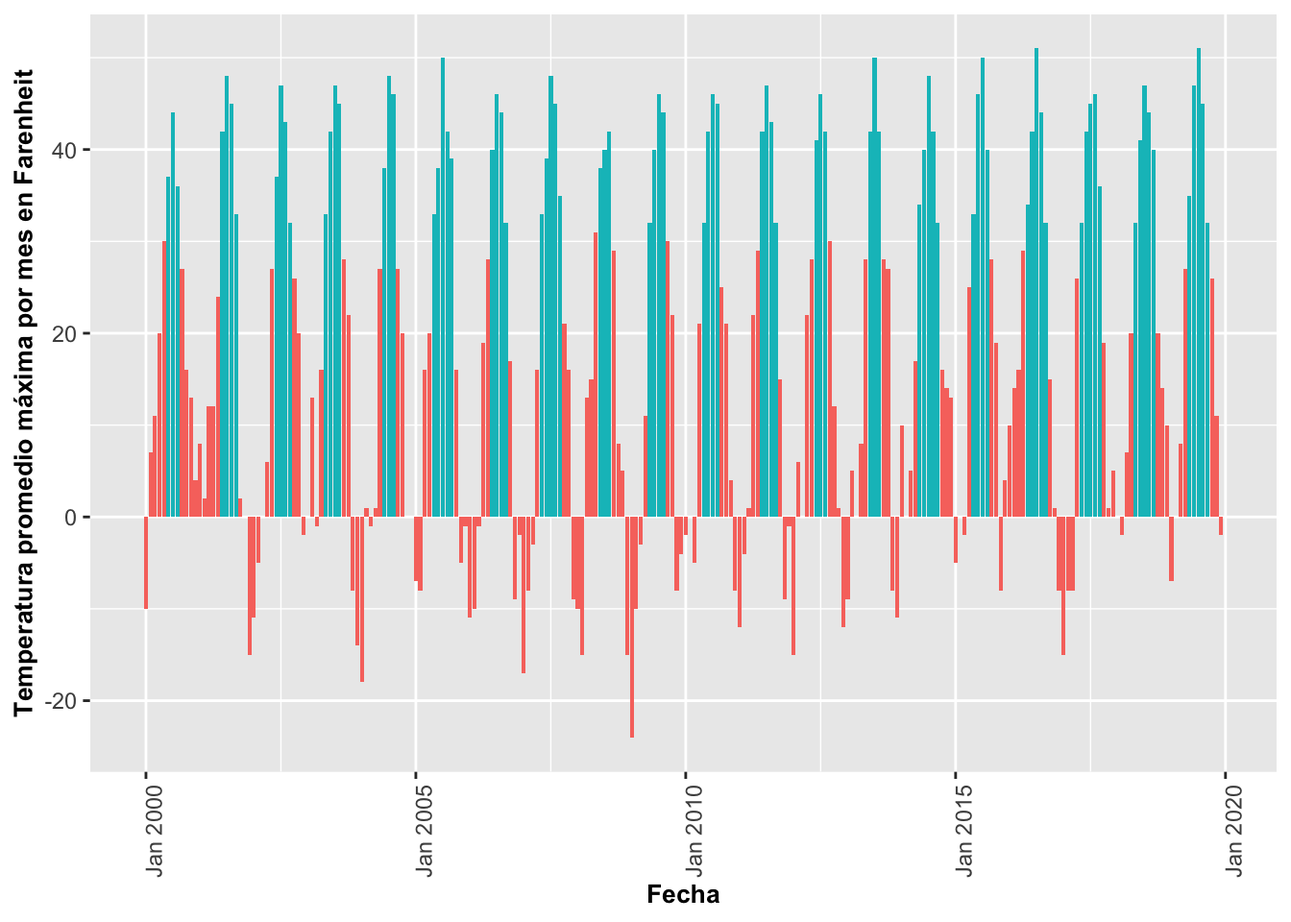
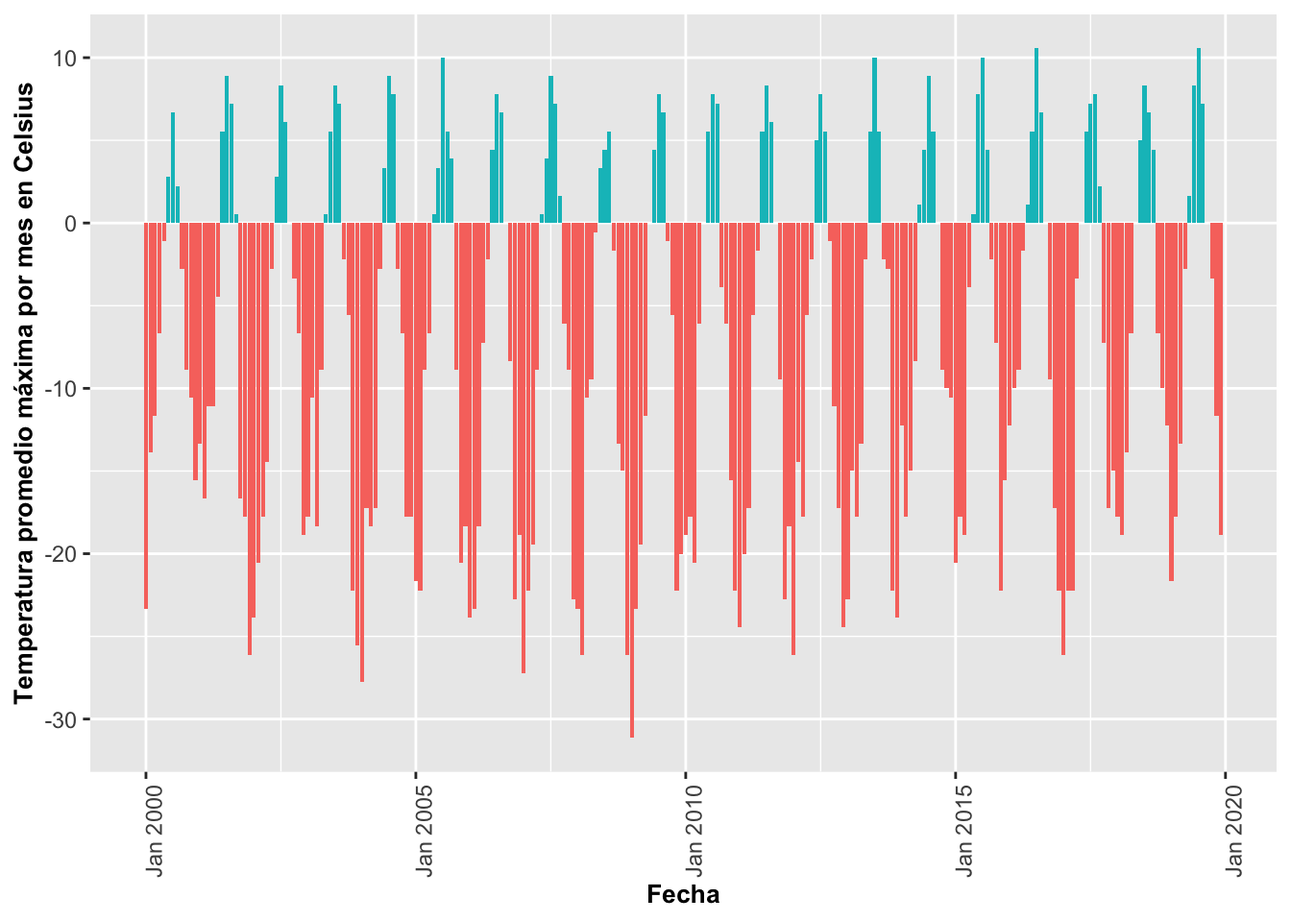
G7

Changed region(s): [[0.0938, 0.2188, 0.9688, 0.5625], [0.0, 0.0625, 0.0938, 0.7812]]

diff --git a/G7_geom_bar.html b/G7_geom_bar.html
@@ -571,12 +571,12 @@ div.tocify {
 <p>Fecha de la ultima revisión</p>
 <pre><code>## [1] &quot;2020-09-23&quot;</code></pre>
 <div class="sourceCode" id="cb2"><pre class="sourceCode r"><code class="sourceCode r"><span id="cb2-1"><a href="#cb2-1"></a><span class="kw">library</span>(tidyverse)</span></code></pre></div>
-<pre><code>## ── Attaching packages ────────────────────────────────────────────────────────────────────────────────────────────────────── tidyverse 1.3.0 ──</code></pre>
+<pre><code>## ── Attaching packages ──────────────────────────────────────────────────────────────────────────────────────────────── tidyverse 1.3.0 ──</code></pre>
 <pre><code>## ✓ ggplot2 3.3.2     ✓ purrr   0.3.4
 ## ✓ tibble  3.0.3     ✓ dplyr   1.0.2
 ## ✓ tidyr   1.1.2     ✓ stringr 1.4.0
 ## ✓ readr   1.3.1     ✓ forcats 0.5.0</code></pre>
-<pre><code>## ── Conflicts ───────────────────────────────────────────────────────────────────────────────────────────────────────── tidyverse_conflicts() ──
+<pre><code>## ── Conflicts ─────────────────────────────────────────────────────────────────────────────────────────────────── tidyverse_conflicts() ──
 ## x dplyr::filter() masks stats::filter()
 ## x dplyr::lag()    masks stats::lag()</code></pre>
 <div class="sourceCode" id="cb6"><pre class="sourceCode r"><code class="sourceCode r"><span id="cb6-1"><a href="#cb6-1"></a><span class="kw">library</span>(ggversa)</span>
@@ -989,34 +989,69 @@ Figura: Lepanthes eltoroensis, EL Yunque, Puerto Rico
 <div id="identificar-que-la-variable-fecha-es-una-variable-de-tiempo.-habrá-un-modulo-para-discutir-solamente-de-fechas-y-horas." class="section level3">
 <h3>Identificar que la variable “Fecha” es una variable de tiempo. Habrá un modulo para discutir solamente de fechas y horas.</h3>
 <div class="sourceCode" id="cb49"><pre class="sourceCode r"><code class="sourceCode r"><span id="cb49-1"><a href="#cb49-1"></a><span class="co"># Identificar que la variable &quot;Fecha&quot; es una variable de tiempo.</span></span>
-<span id="cb49-2"><a href="#cb49-2"></a><span class="kw">names</span>(ASBESTOS_QUEBEC)[<span class="kw">names</span>(ASBESTOS_QUEBEC) <span class="op">==</span><span class="st"> &#39;Date.Time&#39;</span>] &lt;-<span class="st"> &#39;Fecha&#39;</span></span></code></pre></div>
+<span id="cb49-2"><a href="#cb49-2"></a><span class="kw">names</span>(ASBESTOS_QUEBEC)[<span class="kw">names</span>(ASBESTOS_QUEBEC) <span class="op">==</span><span class="st"> &#39;Date.Time&#39;</span>] &lt;-<span class="st"> &#39;Fecha&#39;</span></span>
+<span id="cb49-3"><a href="#cb49-3"></a></span>
+<span id="cb49-4"><a href="#cb49-4"></a><span class="kw">head</span>(ASBESTOS_QUEBEC, <span class="dt">n=</span><span class="dv">15</span>)</span></code></pre></div>
+<pre><code>##    Year Mes Temp_Prom_Max Temp_Prom_Min   Fecha
+## 1  1948   6          22.2           9.9 1948-06
+## 2  1948   7          25.5          14.2 1948-07
+## 3  1948   8          24.9          14.2 1948-08
+## 4  1948   9          21.6           8.4 1948-09
+## 5  1948  10          12.0           2.6 1948-10
+## 6  1948  11          10.3           1.9 1948-11
+## 7  1948  12           1.4          -7.8 1948-12
+## 8  1949   1          -1.9         -12.3 1949-01
+## 9  1949   2            NA            NA 1949-02
+## 10 1949   3           1.4          -9.2 1949-03
+## 11 1949   4          10.6           0.2 1949-04
+## 12 1949   5          17.6           5.0 1949-05
+## 13 1949   6          24.4          12.9 1949-06
+## 14 1949   7          26.6          17.7 1949-07
+## 15 1949   8          25.4          13.9 1949-08</code></pre>
 </div>
 <div id="crear-la-nueva-variable-temp_prom_max" class="section level3">
 <h3>Crear la nueva variable Temp_Prom_Max;</h3>
 <p>Aquí se crea una nueva columna con para identificar si los datos son positivos o negativos, si es positiva = “TRUE”, si es negativa = “FALSE”.</p>
-<div class="sourceCode" id="cb50"><pre class="sourceCode r"><code class="sourceCode r"><span id="cb50-1"><a href="#cb50-1"></a>ASBESTOS_QUEBEC<span class="op">$</span>NegPos=ASBESTOS_QUEBEC<span class="op">$</span>Temp_Prom_Max<span class="op">&gt;=</span><span class="dv">0</span></span></code></pre></div>
+<div class="sourceCode" id="cb51"><pre class="sourceCode r"><code class="sourceCode r"><span id="cb51-1"><a href="#cb51-1"></a>ASBESTOS_QUEBEC<span class="op">$</span>NegPos=ASBESTOS_QUEBEC<span class="op">$</span>Temp_Prom_Max<span class="op">&gt;=</span><span class="dv">0</span></span>
+<span id="cb51-2"><a href="#cb51-2"></a><span class="kw">tail</span>(ASBESTOS_QUEBEC)</span></code></pre></div>
+<pre><code>##     Year Mes Temp_Prom_Max Temp_Prom_Min   Fecha NegPos
+## 461 1986  10          10.5           2.7 1986-10   TRUE
+## 462 1986  11           2.2          -5.7 1986-11   TRUE
+## 463 1986  12            NA            NA 1986-12     NA
+## 464 1987   1            NA            NA 1987-01     NA
+## 465 1987   2          -7.8         -18.6 1987-02  FALSE
+## 466 1987   3           3.3          -6.4 1987-03   TRUE</code></pre>
 </div>
 <div id="selecionar-solamente-un-subgrupo-de-los-datos" class="section level3">
 <h3>Selecionar solamente un subgrupo de los datos</h3>
-<div class="sourceCode" id="cb51"><pre class="sourceCode r"><code class="sourceCode r"><span id="cb51-1"><a href="#cb51-1"></a>ASBESTOSsub=<span class="kw">subset</span>(ASBESTOS_QUEBEC, Year<span class="op">&gt;</span><span class="dv">1962</span> <span class="op">&amp;</span><span class="st"> </span>Year<span class="op">&lt;</span><span class="dv">1967</span>)</span></code></pre></div>
+<div class="sourceCode" id="cb53"><pre class="sourceCode r"><code class="sourceCode r"><span id="cb53-1"><a href="#cb53-1"></a>ASBESTOSsub=<span class="kw">subset</span>(ASBESTOS_QUEBEC, Year<span class="op">&gt;</span><span class="dv">1962</span> <span class="op">&amp;</span><span class="st"> </span>Year<span class="op">&lt;</span><span class="dv">1967</span>) <span class="co"># 1963 al 1966</span></span>
+<span id="cb53-2"><a href="#cb53-2"></a></span>
+<span id="cb53-3"><a href="#cb53-3"></a><span class="kw">head</span>(ASBESTOSsub)</span></code></pre></div>
+<pre><code>##     Year Mes Temp_Prom_Max Temp_Prom_Min   Fecha NegPos
+## 176 1963   1          -6.6         -12.7 1963-01  FALSE
+## 177 1963   2          -9.0         -16.7 1963-02  FALSE
+## 178 1963   3           0.6          -8.8 1963-03   TRUE
+## 179 1963   4           8.2          -0.9 1963-04   TRUE
+## 180 1963   5          16.9           5.7 1963-05   TRUE
+## 181 1963   6          23.1          12.3 1963-06   TRUE</code></pre>
 </div>
 <div id="uniendo-las-partes-para-crear-el-gráfico" class="section level3">
 <h3>Uniendo las partes para crear el gráfico</h3>
-<div class="sourceCode" id="cb52"><pre class="sourceCode r"><code class="sourceCode r"><span id="cb52-1"><a href="#cb52-1"></a><span class="kw">ggplot</span>(<span class="dt">data=</span>ASBESTOSsub,</span>
-<span id="cb52-2"><a href="#cb52-2"></a>  <span class="kw">aes</span>(<span class="dt">x=</span>Fecha, <span class="dt">y=</span>Temp_Prom_Max, <span class="dt">fill=</span>NegPos)) <span class="op">+</span></span>
-<span id="cb52-3"><a href="#cb52-3"></a><span class="st">  </span><span class="kw">geom_bar</span>(<span class="dt">stat =</span> <span class="st">&quot;identity&quot;</span>, <span class="dt">position=</span><span class="st">&quot;identity&quot;</span>)<span class="op">+</span></span>
-<span id="cb52-4"><a href="#cb52-4"></a><span class="st">  </span><span class="kw">theme</span>(<span class="dt">axis.text.x=</span><span class="kw">element_text</span>(<span class="dt">angle=</span><span class="dv">90</span>))<span class="op">+</span></span>
-<span id="cb52-5"><a href="#cb52-5"></a><span class="st">  </span><span class="kw">guides</span>(<span class="dt">fill=</span><span class="ot">FALSE</span>)<span class="op">+</span></span>
-<span id="cb52-6"><a href="#cb52-6"></a><span class="st">  </span><span class="kw">xlab</span>(<span class="st">&quot;Fecha&quot;</span>)<span class="op">+</span></span>
-<span id="cb52-7"><a href="#cb52-7"></a><span class="st">  </span><span class="kw">ylab</span>(<span class="st">&quot;Temperatura promedio máxima por mes en Celsius&quot;</span>)<span class="op">+</span></span>
-<span id="cb52-8"><a href="#cb52-8"></a><span class="st">  </span><span class="kw">theme</span>(<span class="dt">axis.title=</span><span class="kw">element_text</span>(<span class="dt">size=</span><span class="dv">10</span>,<span class="dt">face=</span><span class="st">&quot;bold&quot;</span>))</span></code></pre></div>
+<div class="sourceCode" id="cb55"><pre class="sourceCode r"><code class="sourceCode r"><span id="cb55-1"><a href="#cb55-1"></a><span class="kw">ggplot</span>(<span class="dt">data=</span>ASBESTOSsub,</span>
+<span id="cb55-2"><a href="#cb55-2"></a>  <span class="kw">aes</span>(<span class="dt">x=</span>Fecha, <span class="dt">y=</span>Temp_Prom_Max, <span class="dt">fill=</span>NegPos)) <span class="op">+</span></span>
+<span id="cb55-3"><a href="#cb55-3"></a><span class="st">  </span><span class="kw">geom_bar</span>(<span class="dt">stat =</span> <span class="st">&quot;identity&quot;</span>, <span class="dt">position=</span><span class="st">&quot;identity&quot;</span>)<span class="op">+</span></span>
+<span id="cb55-4"><a href="#cb55-4"></a><span class="st">  </span><span class="kw">theme</span>(<span class="dt">axis.text.x=</span><span class="kw">element_text</span>(<span class="dt">angle=</span><span class="dv">90</span>))<span class="op">+</span></span>
+<span id="cb55-5"><a href="#cb55-5"></a><span class="st">  </span><span class="kw">guides</span>(<span class="dt">fill=</span><span class="ot">FALSE</span>)<span class="op">+</span></span>
+<span id="cb55-6"><a href="#cb55-6"></a><span class="st">  </span><span class="kw">xlab</span>(<span class="st">&quot;Fecha&quot;</span>)<span class="op">+</span></span>
+<span id="cb55-7"><a href="#cb55-7"></a><span class="st">  </span><span class="kw">ylab</span>(<span class="st">&quot;Temperatura promedio máxima por mes en Celsius&quot;</span>)<span class="op">+</span></span>
+<span id="cb55-8"><a href="#cb55-8"></a><span class="st">  </span><span class="kw">theme</span>(<span class="dt">axis.title=</span><span class="kw">element_text</span>(<span class="dt">size=</span><span class="dv">10</span>,<span class="dt">face=</span><span class="st">&quot;bold&quot;</span>))</span></code></pre></div>
 <pre><code>## Warning: Removed 2 rows containing missing values (geom_bar).</code></pre>
 <p><img src="G7_geom_bar_files/figure-html/unnamed-chunk-12-1.png" width="672" /></p>
 <ol start="2" style="list-style-type: decimal">
-<li>USando los datos de Anchorage Alaska, evaluar el patrón de temperatura mínima en los diferentes meses del año.</li>
+<li>USando los datos de Anchorage, Alaska, evaluar el patrón de temperatura mínima en los diferentes meses del año.</li>
 </ol>
-<div class="sourceCode" id="cb54"><pre class="sourceCode r"><code class="sourceCode r"><span id="cb54-1"><a href="#cb54-1"></a><span class="kw">library</span>(readr)</span>
-<span id="cb54-2"><a href="#cb54-2"></a>Anchorage_ALASKA &lt;-<span class="st"> </span><span class="kw">read_csv</span>(<span class="st">&quot;Data/Anchorage_ALASKA.csv&quot;</span>)</span></code></pre></div>
+<div class="sourceCode" id="cb57"><pre class="sourceCode r"><code class="sourceCode r"><span id="cb57-1"><a href="#cb57-1"></a><span class="kw">library</span>(readr)</span>
+<span id="cb57-2"><a href="#cb57-2"></a>Anchorage_ALASKA &lt;-<span class="st"> </span><span class="kw">read_csv</span>(<span class="st">&quot;Data/Anchorage_ALASKA.csv&quot;</span>)</span></code></pre></div>
 <pre><code>## Parsed with column specification:
 ## cols(
 ##   Year = col_double(),
@@ -1033,94 +1068,120 @@ Figura: Lepanthes eltoroensis, EL Yunque, Puerto Rico
 ##   Nov = col_double(),
 ##   Dec = col_double()
 ## )</code></pre>
-<div class="sourceCode" id="cb56"><pre class="sourceCode r"><code class="sourceCode r"><span id="cb56-1"><a href="#cb56-1"></a><span class="kw">head</span>(Anchorage_ALASKA)</span></code></pre></div>
-<pre><code>## # A tibble: 6 x 13
-##    Year   Jan   Feb   Mar   Apr   May   Jun   Jul   Aug   Sep   Oct   Nov   Dec
-##   &lt;dbl&gt; &lt;dbl&gt; &lt;dbl&gt; &lt;dbl&gt; &lt;dbl&gt; &lt;dbl&gt; &lt;dbl&gt; &lt;dbl&gt; &lt;dbl&gt; &lt;dbl&gt; &lt;dbl&gt; &lt;dbl&gt; &lt;dbl&gt;
-## 1  2000   -10     7    11    20    30    37    44    36    27    16    13     4
-## 2  2001     8     2    12    12    24    42    48    45    33     2     0   -15
-## 3  2002   -11    -5     0     6    27    37    47    43    32    26    20    -2
-## 4  2003     0    13    -1    16    33    42    47    45    28    22    -8   -14
-## 5  2004   -18     1    -1     1    27    38    48    46    27    20     0     0
-## 6  2005    -7    -8    16    20    33    38    50    42    39    16    -5    -1</code></pre>
-<div class="sourceCode" id="cb58"><pre class="sourceCode r"><code class="sourceCode r"><span id="cb58-1"><a href="#cb58-1"></a><span class="co"># gather the data in columns</span></span>
-<span id="cb58-2"><a href="#cb58-2"></a><span class="co"># Paso 1</span></span>
-<span id="cb58-3"><a href="#cb58-3"></a>AA&lt;-<span class="kw">gather</span>(Anchorage_ALASKA,</span>
-<span id="cb58-4"><a href="#cb58-4"></a>         <span class="dt">key=</span> <span class="st">&quot;Mes&quot;</span>,</span>
-<span id="cb58-5"><a href="#cb58-5"></a>         <span class="dt">value=</span><span class="st">&quot;Temp_min&quot;</span>,</span>
-<span id="cb58-6"><a href="#cb58-6"></a>         <span class="op">-</span>Year)</span>
-<span id="cb58-7"><a href="#cb58-7"></a>AA      </span></code></pre></div>
+<div class="sourceCode" id="cb59"><pre class="sourceCode r"><code class="sourceCode r"><span id="cb59-1"><a href="#cb59-1"></a>Anchorage_ALASKA</span></code></pre></div>
+<pre><code>## # A tibble: 20 x 13
+##     Year   Jan   Feb   Mar   Apr   May   Jun   Jul   Aug   Sep   Oct   Nov   Dec
+##    &lt;dbl&gt; &lt;dbl&gt; &lt;dbl&gt; &lt;dbl&gt; &lt;dbl&gt; &lt;dbl&gt; &lt;dbl&gt; &lt;dbl&gt; &lt;dbl&gt; &lt;dbl&gt; &lt;dbl&gt; &lt;dbl&gt; &lt;dbl&gt;
+##  1  2000   -10     7    11    20    30    37    44    36    27    16    13     4
+##  2  2001     8     2    12    12    24    42    48    45    33     2     0   -15
+##  3  2002   -11    -5     0     6    27    37    47    43    32    26    20    -2
+##  4  2003     0    13    -1    16    33    42    47    45    28    22    -8   -14
+##  5  2004   -18     1    -1     1    27    38    48    46    27    20     0     0
+##  6  2005    -7    -8    16    20    33    38    50    42    39    16    -5    -1
+##  7  2006   -11   -10    -1    19    28    40    46    44    32    17    -9    -2
+##  8  2007   -17    -8    -3    16    33    39    48    45    35    21    16    -9
+##  9  2008   -10   -15    13    15    31    38    40    42    29     8     5   -15
+## 10  2009   -24   -10    -3    11    32    40    46    44    30    22    -8    -4
+## 11  2010    -2     0    -5    21    32    42    46    45    25    21     4    -8
+## 12  2011   -12    -4     1    22    29    42    47    43    32    15    -9    -1
+## 13  2012   -15     6     0    22    28    41    46    42    30    12     1   -12
+## 14  2013    -9     5     0     8    28    42    50    42    28    27    -8   -11
+## 15  2014    10     0     5    17    34    40    48    42    32    16    14    13
+## 16  2015    -5     0    -2    25    33    46    50    40    28    19    -8     4
+## 17  2016    10    14    16    29    34    42    51    44    32    15     1    -8
+## 18  2017   -15    -8    -8    26    32    42    45    46    36    19     1     5
+## 19  2018     0    -2     7    20    32    41    47    44    40    20    14    10
+## 20  2019    -7     0     8    27    35    47    51    45    32    26    11    -2</code></pre>
+<div class="sourceCode" id="cb61"><pre class="sourceCode r"><code class="sourceCode r"><span id="cb61-1"><a href="#cb61-1"></a><span class="co"># gather the data in columns</span></span>
+<span id="cb61-2"><a href="#cb61-2"></a><span class="co"># Paso 1</span></span>
+<span id="cb61-3"><a href="#cb61-3"></a>AA&lt;-<span class="kw">gather</span>(Anchorage_ALASKA,</span>
+<span id="cb61-4"><a href="#cb61-4"></a>         <span class="dt">key=</span> <span class="st">&quot;Mes&quot;</span>,</span>
+<span id="cb61-5"><a href="#cb61-5"></a>         <span class="dt">value=</span><span class="st">&quot;Temp_min_F&quot;</span>, </span>
+<span id="cb61-6"><a href="#cb61-6"></a>         <span class="op">-</span>Year)</span>
+<span id="cb61-7"><a href="#cb61-7"></a>AA      </span></code></pre></div>
 <pre><code>## # A tibble: 240 x 3
-##     Year Mes   Temp_min
-##    &lt;dbl&gt; &lt;chr&gt;    &lt;dbl&gt;
-##  1  2000 Jan        -10
-##  2  2001 Jan          8
-##  3  2002 Jan        -11
-##  4  2003 Jan          0
-##  5  2004 Jan        -18
-##  6  2005 Jan         -7
-##  7  2006 Jan        -11
-##  8  2007 Jan        -17
-##  9  2008 Jan        -10
-## 10  2009 Jan        -24
+##     Year Mes   Temp_min_F
+##    &lt;dbl&gt; &lt;chr&gt;      &lt;dbl&gt;
+##  1  2000 Jan          -10
+##  2  2001 Jan            8
+##  3  2002 Jan          -11
+##  4  2003 Jan            0
+##  5  2004 Jan          -18
+##  6  2005 Jan           -7
+##  7  2006 Jan          -11
+##  8  2007 Jan          -17
+##  9  2008 Jan          -10
+## 10  2009 Jan          -24
 ## # … with 230 more rows</code></pre>
-<div class="sourceCode" id="cb60"><pre class="sourceCode r"><code class="sourceCode r"><span id="cb60-1"><a href="#cb60-1"></a><span class="co"># Identificar que el Año y Mes son variables de tiempo</span></span>
-<span id="cb60-2"><a href="#cb60-2"></a></span>
-<span id="cb60-3"><a href="#cb60-3"></a><span class="co">#Paso 2</span></span>
-<span id="cb60-4"><a href="#cb60-4"></a></span>
-<span id="cb60-5"><a href="#cb60-5"></a>numMonth&lt;-<span class="cf">function</span>(x) </span>
-<span id="cb60-6"><a href="#cb60-6"></a><span class="kw">c</span>(<span class="dt">jan=</span><span class="dv">1</span>,<span class="dt">feb=</span><span class="dv">2</span>,<span class="dt">mar=</span><span class="dv">3</span>,<span class="dt">apr=</span><span class="dv">4</span>,<span class="dt">may=</span><span class="dv">5</span>,<span class="dt">jun=</span><span class="dv">6</span>,<span class="dt">jul=</span><span class="dv">7</span>,<span class="dt">aug=</span><span class="dv">8</span>,<span class="dt">sep=</span><span class="dv">9</span>,<span class="dt">oct=</span><span class="dv">10</span>,<span class="dt">nov=</span><span class="dv">11</span>,<span class="dt">dec=</span><span class="dv">12</span>)[<span class="kw">tolower</span>(x)]</span>
-<span id="cb60-7"><a href="#cb60-7"></a></span>
-<span id="cb60-8"><a href="#cb60-8"></a>AA<span class="op">$</span>Fecha=<span class="kw">numMonth</span>(AA<span class="op">$</span>Mes)</span>
-<span id="cb60-9"><a href="#cb60-9"></a><span class="kw">tail</span>(AA)</span></code></pre></div>
+<div class="sourceCode" id="cb63"><pre class="sourceCode r"><code class="sourceCode r"><span id="cb63-1"><a href="#cb63-1"></a><span class="co"># Identificar que el Año y Mes son variables de tiempo</span></span>
+<span id="cb63-2"><a href="#cb63-2"></a></span>
+<span id="cb63-3"><a href="#cb63-3"></a><span class="co">#Paso 2</span></span>
+<span id="cb63-4"><a href="#cb63-4"></a></span>
+<span id="cb63-5"><a href="#cb63-5"></a>numMonth&lt;-<span class="cf">function</span>(x) </span>
+<span id="cb63-6"><a href="#cb63-6"></a><span class="kw">c</span>(<span class="dt">jan=</span><span class="dv">1</span>,<span class="dt">feb=</span><span class="dv">2</span>,<span class="dt">mar=</span><span class="dv">3</span>,<span class="dt">apr=</span><span class="dv">4</span>,<span class="dt">may=</span><span class="dv">5</span>,<span class="dt">jun=</span><span class="dv">6</span>,<span class="dt">jul=</span><span class="dv">7</span>,<span class="dt">aug=</span><span class="dv">8</span>,<span class="dt">sep=</span><span class="dv">9</span>,<span class="dt">oct=</span><span class="dv">10</span>,<span class="dt">nov=</span><span class="dv">11</span>,<span class="dt">dec=</span><span class="dv">12</span>)[<span class="kw">tolower</span>(x)]</span>
+<span id="cb63-7"><a href="#cb63-7"></a></span>
+<span id="cb63-8"><a href="#cb63-8"></a>AA<span class="op">$</span>Fecha=<span class="kw">numMonth</span>(AA<span class="op">$</span>Mes)</span>
+<span id="cb63-9"><a href="#cb63-9"></a><span class="kw">tail</span>(AA)</span></code></pre></div>
 <pre><code>## # A tibble: 6 x 4
-##    Year Mes   Temp_min Fecha
-##   &lt;dbl&gt; &lt;chr&gt;    &lt;dbl&gt; &lt;dbl&gt;
-## 1  2014 Dec         13    12
-## 2  2015 Dec          4    12
-## 3  2016 Dec         -8    12
-## 4  2017 Dec          5    12
-## 5  2018 Dec         10    12
-## 6  2019 Dec         -2    12</code></pre>
-<div class="sourceCode" id="cb62"><pre class="sourceCode r"><code class="sourceCode r"><span id="cb62-1"><a href="#cb62-1"></a><span class="co">#Paso 3</span></span>
-<span id="cb62-2"><a href="#cb62-2"></a></span>
-<span id="cb62-3"><a href="#cb62-3"></a><span class="kw">library</span>(zoo)</span></code></pre></div>
+##    Year Mes   Temp_min_F Fecha
+##   &lt;dbl&gt; &lt;chr&gt;      &lt;dbl&gt; &lt;dbl&gt;
+## 1  2014 Dec           13    12
+## 2  2015 Dec            4    12
+## 3  2016 Dec           -8    12
+## 4  2017 Dec            5    12
+## 5  2018 Dec           10    12
+## 6  2019 Dec           -2    12</code></pre>
+<div class="sourceCode" id="cb65"><pre class="sourceCode r"><code class="sourceCode r"><span id="cb65-1"><a href="#cb65-1"></a><span class="co">#Paso 3</span></span>
+<span id="cb65-2"><a href="#cb65-2"></a></span>
+<span id="cb65-3"><a href="#cb65-3"></a><span class="kw">library</span>(zoo)</span></code></pre></div>
 <pre><code>## 
 ## Attaching package: &#39;zoo&#39;</code></pre>
 <pre><code>## The following objects are masked from &#39;package:base&#39;:
 ## 
 ##     as.Date, as.Date.numeric</code></pre>
-<div class="sourceCode" id="cb65"><pre class="sourceCode r"><code class="sourceCode r"><span id="cb65-1"><a href="#cb65-1"></a>AA<span class="op">$</span>FechasMA &lt;-<span class="st"> </span><span class="kw">as.yearmon</span>(<span class="kw">paste</span>(AA<span class="op">$</span>Year, AA<span class="op">$</span>Fecha), <span class="st">&quot;%Y %m&quot;</span>)</span>
-<span id="cb65-2"><a href="#cb65-2"></a><span class="kw">head</span>(AA)</span></code></pre></div>
+<div class="sourceCode" id="cb68"><pre class="sourceCode r"><code class="sourceCode r"><span id="cb68-1"><a href="#cb68-1"></a>AA<span class="op">$</span>FechasMA &lt;-<span class="st"> </span><span class="kw">as.yearmon</span>(<span class="kw">paste</span>(AA<span class="op">$</span>Year, AA<span class="op">$</span>Fecha), <span class="st">&quot;%Y %m&quot;</span>)</span>
+<span id="cb68-2"><a href="#cb68-2"></a><span class="kw">head</span>(AA)</span></code></pre></div>
 <pre><code>## # A tibble: 6 x 5
-##    Year Mes   Temp_min Fecha FechasMA 
-##   &lt;dbl&gt; &lt;chr&gt;    &lt;dbl&gt; &lt;dbl&gt; &lt;yearmon&gt;
-## 1  2000 Jan        -10     1 Jan 2000 
-## 2  2001 Jan          8     1 Jan 2001 
-## 3  2002 Jan        -11     1 Jan 2002 
-## 4  2003 Jan          0     1 Jan 2003 
-## 5  2004 Jan        -18     1 Jan 2004 
-## 6  2005 Jan         -7     1 Jan 2005</code></pre>
-<div class="sourceCode" id="cb67"><pre class="sourceCode r"><code class="sourceCode r"><span id="cb67-1"><a href="#cb67-1"></a><span class="co"># Paso 4</span></span>
-<span id="cb67-2"><a href="#cb67-2"></a>AA<span class="op">$</span>NegPos=AA<span class="op">$</span>Temp_min<span class="op">&gt;=</span><span class="dv">32</span></span>
-<span id="cb67-3"><a href="#cb67-3"></a><span class="kw">head</span>(AA)</span></code></pre></div>
+##    Year Mes   Temp_min_F Fecha FechasMA 
+##   &lt;dbl&gt; &lt;chr&gt;      &lt;dbl&gt; &lt;dbl&gt; &lt;yearmon&gt;
+## 1  2000 Jan          -10     1 Jan 2000 
+## 2  2001 Jan            8     1 Jan 2001 
+## 3  2002 Jan          -11     1 Jan 2002 
+## 4  2003 Jan            0     1 Jan 2003 
+## 5  2004 Jan          -18     1 Jan 2004 
+## 6  2005 Jan           -7     1 Jan 2005</code></pre>
+<div class="sourceCode" id="cb70"><pre class="sourceCode r"><code class="sourceCode r"><span id="cb70-1"><a href="#cb70-1"></a><span class="co"># Paso 4</span></span>
+<span id="cb70-2"><a href="#cb70-2"></a>AA<span class="op">$</span>NegPos=AA<span class="op">$</span>Temp_min_F<span class="op">&gt;=</span><span class="dv">32</span></span>
+<span id="cb70-3"><a href="#cb70-3"></a><span class="kw">head</span>(AA)</span></code></pre></div>
 <pre><code>## # A tibble: 6 x 6
-##    Year Mes   Temp_min Fecha FechasMA  NegPos
-##   &lt;dbl&gt; &lt;chr&gt;    &lt;dbl&gt; &lt;dbl&gt; &lt;yearmon&gt; &lt;lgl&gt; 
-## 1  2000 Jan        -10     1 Jan 2000  FALSE 
-## 2  2001 Jan          8     1 Jan 2001  FALSE 
-## 3  2002 Jan        -11     1 Jan 2002  FALSE 
-## 4  2003 Jan          0     1 Jan 2003  FALSE 
-## 5  2004 Jan        -18     1 Jan 2004  FALSE 
-## 6  2005 Jan         -7     1 Jan 2005  FALSE</code></pre>
-<div class="sourceCode" id="cb69"><pre class="sourceCode r"><code class="sourceCode r"><span id="cb69-1"><a href="#cb69-1"></a><span class="kw">ggplot</span>(<span class="dt">data=</span>AA,</span>
-<span id="cb69-2"><a href="#cb69-2"></a>  <span class="kw">aes</span>(<span class="dt">x=</span>FechasMA, <span class="dt">y=</span>Temp_min, <span class="dt">fill=</span>NegPos)) <span class="op">+</span></span>
-<span id="cb69-3"><a href="#cb69-3"></a><span class="st">  </span><span class="kw">geom_bar</span>(<span class="dt">stat =</span> <span class="st">&quot;identity&quot;</span>, <span class="dt">position=</span><span class="st">&quot;identity&quot;</span>)<span class="op">+</span></span>
-<span id="cb69-4"><a href="#cb69-4"></a><span class="st">  </span><span class="kw">theme</span>(<span class="dt">axis.text.x=</span><span class="kw">element_text</span>(<span class="dt">angle=</span><span class="dv">90</span>))<span class="op">+</span></span>
-<span id="cb69-5"><a href="#cb69-5"></a><span class="st">  </span><span class="kw">guides</span>(<span class="dt">fill=</span><span class="ot">FALSE</span>)<span class="op">+</span></span>
-<span id="cb69-6"><a href="#cb69-6"></a><span class="st">  </span><span class="kw">xlab</span>(<span class="st">&quot;Fecha&quot;</span>)<span class="op">+</span></span>
-<span id="cb69-7"><a href="#cb69-7"></a><span class="st">  </span><span class="kw">ylab</span>(<span class="st">&quot;Temperatura promedio máxima por mes en Farenheit&quot;</span>)<span class="op">+</span></span>
-<span id="cb69-8"><a href="#cb69-8"></a><span class="st">  </span><span class="kw">theme</span>(<span class="dt">axis.title=</span><span class="kw">element_text</span>(<span class="dt">size=</span><span class="dv">10</span>,<span class="dt">face=</span><span class="st">&quot;bold&quot;</span>))</span></code></pre></div>
+##    Year Mes   Temp_min_F Fecha FechasMA  NegPos
+##   &lt;dbl&gt; &lt;chr&gt;      &lt;dbl&gt; &lt;dbl&gt; &lt;yearmon&gt; &lt;lgl&gt; 
+## 1  2000 Jan          -10     1 Jan 2000  FALSE 
+## 2  2001 Jan            8     1 Jan 2001  FALSE 
+## 3  2002 Jan          -11     1 Jan 2002  FALSE 
+## 4  2003 Jan            0     1 Jan 2003  FALSE 
+## 5  2004 Jan          -18     1 Jan 2004  FALSE 
+## 6  2005 Jan           -7     1 Jan 2005  FALSE</code></pre>
+<div class="sourceCode" id="cb72"><pre class="sourceCode r"><code class="sourceCode r"><span id="cb72-1"><a href="#cb72-1"></a>AA<span class="op">$</span>Temp_C=(AA<span class="op">$</span>Temp_min_F<span class="dv">-32</span>)<span class="op">*</span><span class="dv">5</span><span class="op">/</span><span class="dv">9</span></span>
+<span id="cb72-2"><a href="#cb72-2"></a><span class="kw">head</span>(AA)</span></code></pre></div>
+<pre><code>## # A tibble: 6 x 7
+##    Year Mes   Temp_min_F Fecha FechasMA  NegPos Temp_C
+##   &lt;dbl&gt; &lt;chr&gt;      &lt;dbl&gt; &lt;dbl&gt; &lt;yearmon&gt; &lt;lgl&gt;   &lt;dbl&gt;
+## 1  2000 Jan          -10     1 Jan 2000  FALSE   -23.3
+## 2  2001 Jan            8     1 Jan 2001  FALSE   -13.3
+## 3  2002 Jan          -11     1 Jan 2002  FALSE   -23.9
+## 4  2003 Jan            0     1 Jan 2003  FALSE   -17.8
+## 5  2004 Jan          -18     1 Jan 2004  FALSE   -27.8
+## 6  2005 Jan           -7     1 Jan 2005  FALSE   -21.7</code></pre>
+<div class="sourceCode" id="cb74"><pre class="sourceCode r"><code class="sourceCode r"><span id="cb74-1"><a href="#cb74-1"></a>AA<span class="op">$</span>NegPosC=AA<span class="op">$</span>Temp_C<span class="op">&gt;=</span><span class="dv">0</span></span></code></pre></div>
+<div class="sourceCode" id="cb75"><pre class="sourceCode r"><code class="sourceCode r"><span id="cb75-1"><a href="#cb75-1"></a><span class="kw">ggplot</span>(<span class="dt">data=</span>AA,</span>
+<span id="cb75-2"><a href="#cb75-2"></a>  <span class="kw">aes</span>(<span class="dt">x=</span>FechasMA, <span class="dt">y=</span>Temp_C, <span class="dt">fill=</span>NegPosC)) <span class="op">+</span></span>
+<span id="cb75-3"><a href="#cb75-3"></a><span class="st">  </span><span class="kw">geom_bar</span>(<span class="dt">stat =</span> <span class="st">&quot;identity&quot;</span>, <span class="dt">position=</span><span class="st">&quot;identity&quot;</span>)<span class="op">+</span></span>
+<span id="cb75-4"><a href="#cb75-4"></a><span class="st">  </span><span class="kw">theme</span>(<span class="dt">axis.text.x=</span><span class="kw">element_text</span>(<span class="dt">angle=</span><span class="dv">90</span>))<span class="op">+</span></span>
+<span id="cb75-5"><a href="#cb75-5"></a><span class="st">  </span><span class="kw">guides</span>(<span class="dt">fill=</span><span class="ot">FALSE</span>)<span class="op">+</span></span>
+<span id="cb75-6"><a href="#cb75-6"></a><span class="st">  </span><span class="kw">xlab</span>(<span class="st">&quot;Fecha&quot;</span>)<span class="op">+</span></span>
+<span id="cb75-7"><a href="#cb75-7"></a><span class="st">  </span><span class="kw">ylab</span>(<span class="st">&quot;Temperatura promedio máxima por mes en Celsius&quot;</span>)<span class="op">+</span></span>
+<span id="cb75-8"><a href="#cb75-8"></a><span class="st">  </span><span class="kw">theme</span>(<span class="dt">axis.title=</span><span class="kw">element_text</span>(<span class="dt">size=</span><span class="dv">10</span>,<span class="dt">face=</span><span class="st">&quot;bold&quot;</span>))</span></code></pre></div>
 <p><img src="G7_geom_bar_files/figure-html/unnamed-chunk-17-1.png" width="672" /></p>
 </div>
 </div>
@@ -1128,8 +1189,8 @@ Figura: Lepanthes eltoroensis, EL Yunque, Puerto Rico
 <h2>Gráfico de barras: Ajuste de posiciones con <strong>geom_bar</strong></h2>
 <p>A veces queremos hacer que las barras luzcan de diferentes maneras; por ejemplo, que las posiciones de las barras no salgan verticales o tan gruesas. Además, se puede modificar la representación de las barras para que la altura de ellas no represente el número de observaciones; por ejemplo, que represente una suma sobre otra variable.</p>
 <p>Los datos que utilizaremos para la próxima demostración provienen del archivo de lagartos <strong>Anolis</strong> que contiene información sobre su edad, sexo, periodo de muestreo y localidad donde fueron muestreados.</p>
-<div class="sourceCode" id="cb70"><pre class="sourceCode r"><code class="sourceCode r"><span id="cb70-1"><a href="#cb70-1"></a><span class="kw">library</span>(ggversa)</span>
-<span id="cb70-2"><a href="#cb70-2"></a><span class="kw">names</span>(Anolis)</span></code></pre></div>
+<div class="sourceCode" id="cb76"><pre class="sourceCode r"><code class="sourceCode r"><span id="cb76-1"><a href="#cb76-1"></a><span class="kw">library</span>(ggversa)</span>
+<span id="cb76-2"><a href="#cb76-2"></a><span class="kw">names</span>(Anolis)</span></code></pre></div>
 <pre><code>##  [1] &quot;STUDY&quot;                    &quot;Survey_Site&quot;             
 ##  [3] &quot;LOCATION&quot;                 &quot;TIME&quot;                    
 ##  [5] &quot;DATE&quot;                     &quot;SEASON&quot;                  
@@ -1139,37 +1200,37 @@ Figura: Lepanthes eltoroensis, EL Yunque, Puerto Rico
 ## [13] &quot;WEIGHT&quot;                   &quot;SVL&quot;                     
 ## [15] &quot;TAIL&quot;</code></pre>
 <p>El primer gráfico a continuación, produce por omisión barras negras que representan la suma de la cantidad de observaciones.</p>
-<div class="sourceCode" id="cb72"><pre class="sourceCode r"><code class="sourceCode r"><span id="cb72-1"><a href="#cb72-1"></a>barraA=<span class="kw">ggplot</span>(Anolis, <span class="kw">aes</span>(SEX_AGE))</span>
-<span id="cb72-2"><a href="#cb72-2"></a>barraA<span class="op">+</span><span class="kw">geom_bar</span>(<span class="dt">fill=</span><span class="kw">grey</span>(.<span class="dv">3</span>))<span class="op">+</span></span>
-<span id="cb72-3"><a href="#cb72-3"></a><span class="st">  </span><span class="kw">theme</span>(<span class="dt">axis.title=</span><span class="kw">element_text</span>(<span class="dt">size=</span><span class="dv">14</span>,<span class="dt">face=</span><span class="st">&quot;bold&quot;</span>))</span></code></pre></div>
+<div class="sourceCode" id="cb78"><pre class="sourceCode r"><code class="sourceCode r"><span id="cb78-1"><a href="#cb78-1"></a>barraA=<span class="kw">ggplot</span>(Anolis, <span class="kw">aes</span>(SEX_AGE))</span>
+<span id="cb78-2"><a href="#cb78-2"></a>barraA<span class="op">+</span><span class="kw">geom_bar</span>(<span class="dt">fill=</span><span class="kw">grey</span>(.<span class="dv">3</span>))<span class="op">+</span></span>
+<span id="cb78-3"><a href="#cb78-3"></a><span class="st">  </span><span class="kw">theme</span>(<span class="dt">axis.title=</span><span class="kw">element_text</span>(<span class="dt">size=</span><span class="dv">14</span>,<span class="dt">face=</span><span class="st">&quot;bold&quot;</span>))</span></code></pre></div>
 <p><img src="G7_geom_bar_files/figure-html/geombar2-1.png" width="672" /></p>
 <p>En el segundo, el ancho de las barras fue reducido para que se vean menos angostas usando la opción <strong>width</strong>, ene ejemplo se reduce el ancho de las barras <strong>width=.3</strong>. Además, se cambia la descripción de los ejes al castellano. También selecciono un otro color de gris y se modifico su intensidad con <strong>fill=grey(.5)</strong>.</p>
-<div class="sourceCode" id="cb73"><pre class="sourceCode r"><code class="sourceCode r"><span id="cb73-1"><a href="#cb73-1"></a>barraA=<span class="kw">ggplot</span>(Anolis, <span class="kw">aes</span>(SEX_AGE))</span>
-<span id="cb73-2"><a href="#cb73-2"></a>barraA<span class="op">+</span><span class="kw">geom_bar</span>(<span class="dt">width=</span>.<span class="dv">3</span>, <span class="dt">fill=</span><span class="kw">grey</span>(.<span class="dv">5</span>))<span class="op">+</span></span>
-<span id="cb73-3"><a href="#cb73-3"></a><span class="st">  </span><span class="kw">labs</span>(<span class="dt">y=</span><span class="st">&quot;Frecuencia&quot;</span>, <span class="dt">x=</span><span class="st">&quot;Género y edad&quot;</span>)<span class="op">+</span></span>
-<span id="cb73-4"><a href="#cb73-4"></a><span class="st">  </span><span class="kw">theme</span>(<span class="dt">axis.title=</span><span class="kw">element_text</span>(<span class="dt">size=</span><span class="dv">10</span>,<span class="dt">face=</span><span class="st">&quot;bold&quot;</span>))</span></code></pre></div>
+<div class="sourceCode" id="cb79"><pre class="sourceCode r"><code class="sourceCode r"><span id="cb79-1"><a href="#cb79-1"></a>barraA=<span class="kw">ggplot</span>(Anolis, <span class="kw">aes</span>(SEX_AGE))</span>
+<span id="cb79-2"><a href="#cb79-2"></a>barraA<span class="op">+</span><span class="kw">geom_bar</span>(<span class="dt">width=</span>.<span class="dv">3</span>, <span class="dt">fill=</span><span class="kw">grey</span>(.<span class="dv">5</span>))<span class="op">+</span></span>
+<span id="cb79-3"><a href="#cb79-3"></a><span class="st">  </span><span class="kw">labs</span>(<span class="dt">y=</span><span class="st">&quot;Frecuencia&quot;</span>, <span class="dt">x=</span><span class="st">&quot;Género y edad&quot;</span>)<span class="op">+</span></span>
+<span id="cb79-4"><a href="#cb79-4"></a><span class="st">  </span><span class="kw">theme</span>(<span class="dt">axis.title=</span><span class="kw">element_text</span>(<span class="dt">size=</span><span class="dv">10</span>,<span class="dt">face=</span><span class="st">&quot;bold&quot;</span>))</span></code></pre></div>
 <p><img src="G7_geom_bar_files/figure-html/unnamed-chunk-18-1.png" width="672" /></p>
 <p>En el tercer grafico las barras fueron rotadas usando la opción <strong>coord_flip()</strong> y puestas sobre lo que antes era el eje de <strong>Y</strong>. En el cuarto, se añadió una variable discreta como color; en este caso, fue usada la escala de color gris para distinguir entre la temporada seca <strong>dry</strong> la lluviosa <strong>wet</strong>. Si no se añade la opción scale_fill_grey(), las categorías tendrían color.</p>
-<div class="sourceCode" id="cb74"><pre class="sourceCode r"><code class="sourceCode r"><span id="cb74-1"><a href="#cb74-1"></a>barraA=<span class="kw">ggplot</span>(Anolis, <span class="kw">aes</span>(SEX_AGE))</span>
-<span id="cb74-2"><a href="#cb74-2"></a>barraA<span class="op">+</span><span class="kw">geom_bar</span>(<span class="dt">fill=</span><span class="kw">grey</span>(.<span class="dv">5</span>))<span class="op">+</span><span class="kw">coord_flip</span>()<span class="op">+</span></span>
-<span id="cb74-3"><a href="#cb74-3"></a><span class="st">  </span><span class="kw">labs</span>(<span class="dt">y=</span><span class="st">&quot;Frecuencia&quot;</span>, <span class="dt">x=</span><span class="st">&quot;Género y edad&quot;</span>)<span class="op">+</span></span>
-<span id="cb74-4"><a href="#cb74-4"></a><span class="st">  </span><span class="kw">theme</span>(<span class="dt">axis.title=</span><span class="kw">element_text</span>(<span class="dt">size=</span><span class="dv">10</span>,<span class="dt">face=</span><span class="st">&quot;bold&quot;</span>))</span></code></pre></div>
+<div class="sourceCode" id="cb80"><pre class="sourceCode r"><code class="sourceCode r"><span id="cb80-1"><a href="#cb80-1"></a>barraA=<span class="kw">ggplot</span>(Anolis, <span class="kw">aes</span>(SEX_AGE))</span>
+<span id="cb80-2"><a href="#cb80-2"></a>barraA<span class="op">+</span><span class="kw">geom_bar</span>(<span class="dt">fill=</span><span class="kw">grey</span>(.<span class="dv">5</span>))<span class="op">+</span><span class="kw">coord_flip</span>()<span class="op">+</span></span>
+<span id="cb80-3"><a href="#cb80-3"></a><span class="st">  </span><span class="kw">labs</span>(<span class="dt">y=</span><span class="st">&quot;Frecuencia&quot;</span>, <span class="dt">x=</span><span class="st">&quot;Género y edad&quot;</span>)<span class="op">+</span></span>
+<span id="cb80-4"><a href="#cb80-4"></a><span class="st">  </span><span class="kw">theme</span>(<span class="dt">axis.title=</span><span class="kw">element_text</span>(<span class="dt">size=</span><span class="dv">10</span>,<span class="dt">face=</span><span class="st">&quot;bold&quot;</span>))</span></code></pre></div>
 <p><img src="G7_geom_bar_files/figure-html/geombar2a-1.png" width="672" /></p>
-<div class="sourceCode" id="cb75"><pre class="sourceCode r"><code class="sourceCode r"><span id="cb75-1"><a href="#cb75-1"></a>barraA=<span class="kw">ggplot</span>(Anolis, <span class="kw">aes</span>(SEX_AGE, <span class="dt">fill=</span>SEASON))</span>
-<span id="cb75-2"><a href="#cb75-2"></a>barraA<span class="op">+</span><span class="kw">geom_bar</span>()<span class="op">+</span><span class="kw">scale_fill_grey</span>()<span class="op">+</span></span>
-<span id="cb75-3"><a href="#cb75-3"></a><span class="st">  </span><span class="kw">labs</span>(<span class="dt">y=</span><span class="st">&quot;Frecuencia&quot;</span>, <span class="dt">x=</span><span class="st">&quot;Género y edad&quot;</span>)<span class="op">+</span></span>
-<span id="cb75-4"><a href="#cb75-4"></a><span class="st">  </span><span class="kw">theme</span>(<span class="dt">axis.title=</span><span class="kw">element_text</span>(<span class="dt">size=</span><span class="dv">10</span>,<span class="dt">face=</span><span class="st">&quot;bold&quot;</span>))</span></code></pre></div>
+<div class="sourceCode" id="cb81"><pre class="sourceCode r"><code class="sourceCode r"><span id="cb81-1"><a href="#cb81-1"></a>barraA=<span class="kw">ggplot</span>(Anolis, <span class="kw">aes</span>(SEX_AGE, <span class="dt">fill=</span>SEASON))</span>
+<span id="cb81-2"><a href="#cb81-2"></a>barraA<span class="op">+</span><span class="kw">geom_bar</span>()<span class="op">+</span><span class="kw">scale_fill_grey</span>()<span class="op">+</span></span>
+<span id="cb81-3"><a href="#cb81-3"></a><span class="st">  </span><span class="kw">labs</span>(<span class="dt">y=</span><span class="st">&quot;Frecuencia&quot;</span>, <span class="dt">x=</span><span class="st">&quot;Género y edad&quot;</span>)<span class="op">+</span></span>
+<span id="cb81-4"><a href="#cb81-4"></a><span class="st">  </span><span class="kw">theme</span>(<span class="dt">axis.title=</span><span class="kw">element_text</span>(<span class="dt">size=</span><span class="dv">10</span>,<span class="dt">face=</span><span class="st">&quot;bold&quot;</span>))</span></code></pre></div>
 <p><img src="G7_geom_bar_files/figure-html/geombar2a-2.png" width="672" /> ### Posiciones d elas barras</p>
 <p>Si uno quiere posicionar las categorías una al lado de la otra, se usa <strong>(position={dodge})</strong>. El parámetro <strong>dodge</strong> le indica <strong>esquivar</strong> en el sentido de mover al lado.</p>
-<div class="sourceCode" id="cb76"><pre class="sourceCode r"><code class="sourceCode r"><span id="cb76-1"><a href="#cb76-1"></a>barraA=<span class="kw">ggplot</span>(Anolis, <span class="kw">aes</span>(SEX_AGE,<span class="dt">fill=</span>SEASON))</span>
-<span id="cb76-2"><a href="#cb76-2"></a>barraA<span class="op">+</span><span class="kw">geom_bar</span>()<span class="op">+</span></span>
-<span id="cb76-3"><a href="#cb76-3"></a><span class="st">  </span><span class="kw">labs</span>(<span class="dt">y=</span><span class="st">&quot;Frecuencia&quot;</span>, <span class="dt">x=</span><span class="st">&quot;Género y edad&quot;</span>)<span class="op">+</span></span>
-<span id="cb76-4"><a href="#cb76-4"></a><span class="st">  </span><span class="kw">theme</span>(<span class="dt">axis.title=</span><span class="kw">element_text</span>(<span class="dt">size=</span><span class="dv">10</span>,<span class="dt">face=</span><span class="st">&quot;bold&quot;</span>))</span></code></pre></div>
+<div class="sourceCode" id="cb82"><pre class="sourceCode r"><code class="sourceCode r"><span id="cb82-1"><a href="#cb82-1"></a>barraA=<span class="kw">ggplot</span>(Anolis, <span class="kw">aes</span>(SEX_AGE,<span class="dt">fill=</span>SEASON))</span>
+<span id="cb82-2"><a href="#cb82-2"></a>barraA<span class="op">+</span><span class="kw">geom_bar</span>()<span class="op">+</span></span>
+<span id="cb82-3"><a href="#cb82-3"></a><span class="st">  </span><span class="kw">labs</span>(<span class="dt">y=</span><span class="st">&quot;Frecuencia&quot;</span>, <span class="dt">x=</span><span class="st">&quot;Género y edad&quot;</span>)<span class="op">+</span></span>
+<span id="cb82-4"><a href="#cb82-4"></a><span class="st">  </span><span class="kw">theme</span>(<span class="dt">axis.title=</span><span class="kw">element_text</span>(<span class="dt">size=</span><span class="dv">10</span>,<span class="dt">face=</span><span class="st">&quot;bold&quot;</span>))</span></code></pre></div>
 <p><img src="G7_geom_bar_files/figure-html/geombar3-1.png" width="672" /></p>
-<div class="sourceCode" id="cb77"><pre class="sourceCode r"><code class="sourceCode r"><span id="cb77-1"><a href="#cb77-1"></a>barraA=<span class="kw">ggplot</span>(Anolis, <span class="kw">aes</span>(SEX_AGE,<span class="dt">fill=</span>SEASON))</span>
-<span id="cb77-2"><a href="#cb77-2"></a>barraA<span class="op">+</span><span class="kw">geom_bar</span>(<span class="dt">position=</span><span class="st">&quot;dodge&quot;</span>)<span class="op">+</span></span>
-<span id="cb77-3"><a href="#cb77-3"></a><span class="st">  </span><span class="kw">labs</span>(<span class="dt">y=</span><span class="st">&quot;Frecuencia&quot;</span>, <span class="dt">x=</span><span class="st">&quot;Género y edad&quot;</span>)<span class="op">+</span></span>
-<span id="cb77-4"><a href="#cb77-4"></a><span class="st">  </span><span class="kw">theme</span>(<span class="dt">axis.title=</span><span class="kw">element_text</span>(<span class="dt">size=</span><span class="dv">10</span>,<span class="dt">face=</span><span class="st">&quot;bold&quot;</span>))</span></code></pre></div>
+<div class="sourceCode" id="cb83"><pre class="sourceCode r"><code class="sourceCode r"><span id="cb83-1"><a href="#cb83-1"></a>barraA=<span class="kw">ggplot</span>(Anolis, <span class="kw">aes</span>(SEX_AGE,<span class="dt">fill=</span>SEASON))</span>
+<span id="cb83-2"><a href="#cb83-2"></a>barraA<span class="op">+</span><span class="kw">geom_bar</span>(<span class="dt">position=</span><span class="st">&quot;dodge&quot;</span>)<span class="op">+</span></span>
+<span id="cb83-3"><a href="#cb83-3"></a><span class="st">  </span><span class="kw">labs</span>(<span class="dt">y=</span><span class="st">&quot;Frecuencia&quot;</span>, <span class="dt">x=</span><span class="st">&quot;Género y edad&quot;</span>)<span class="op">+</span></span>
+<span id="cb83-4"><a href="#cb83-4"></a><span class="st">  </span><span class="kw">theme</span>(<span class="dt">axis.title=</span><span class="kw">element_text</span>(<span class="dt">size=</span><span class="dv">10</span>,<span class="dt">face=</span><span class="st">&quot;bold&quot;</span>))</span></code></pre></div>
 <p><img src="G7_geom_bar_files/figure-html/geombar3-2.png" width="672" /></p>
 </div>
 </div>
